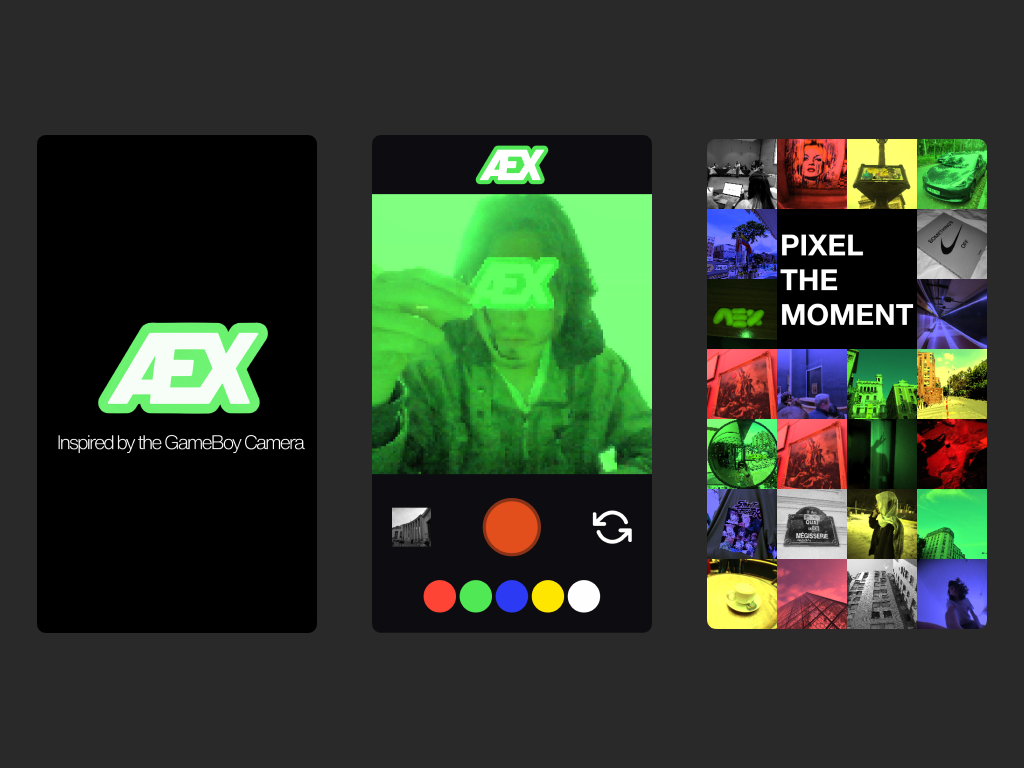
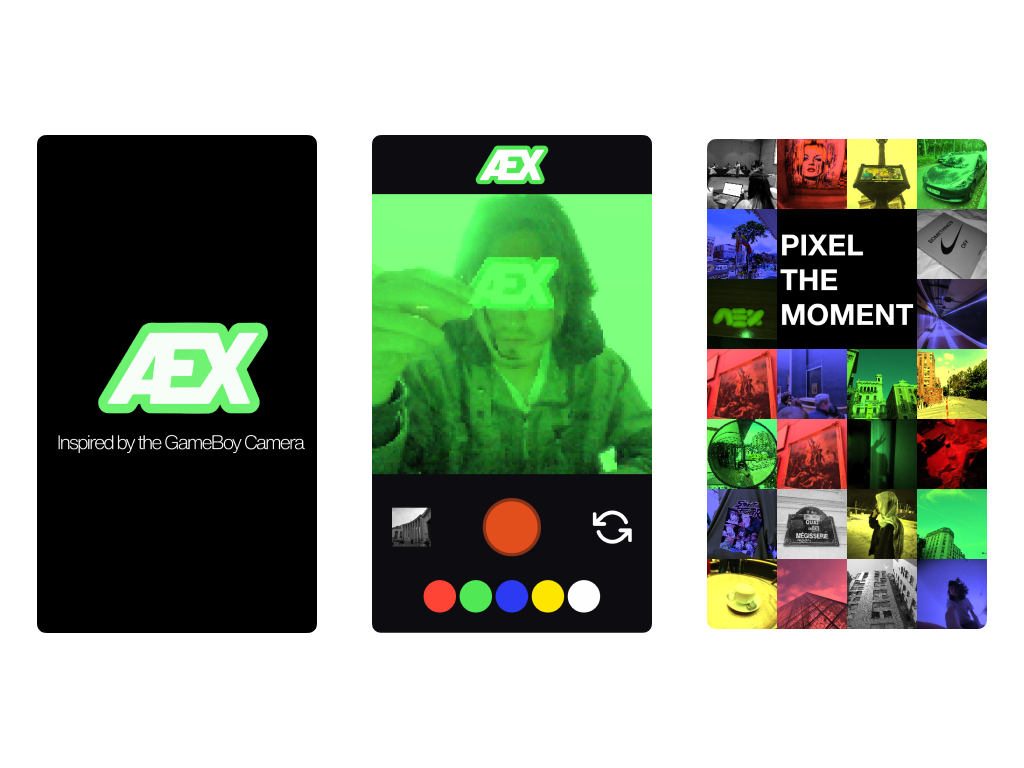
aex front img solved

diff --git a/src/app/components/Flow.module.css b/src/app/components/Flow.module.css
@@ -1,6 +1,7 @@
 .projects {
   /* border: 1px solid red; */
   display: flex;
+  flex-direction: column;
   justify-content: center;
   align-items: center;
   height: 90vh;
@@ -16,7 +17,6 @@
   border-radius: 20px;
   height: 450px;
   width: auto;
-
 }
 
 .poster {
@@ -35,13 +35,21 @@
 }
 
 @media (max-width: 1023px) {
+  .projects {
+    padding: 10px;
+  }
+
+  .projects a {
+    width: auto;
+  }
+
   .projects img {
     height: auto;
-    width: 80%;
+    width: 100%;
   }
 
   .vertical {
-    max-height: 90%;
+    height: 50%;
     width: auto;
   }
 }

diff --git a/src/app/components/Flow.jsx b/src/app/components/Flow.jsx
@@ -9,7 +9,7 @@ const images = [
   { src: "/bloop.gif", class: "web", route: "/bloop" },
   { src: "/BN.png", class: "bn", route: "/bn" },
   { src: "/saikoro.gif", class: "web", route: "/saikoro" },
-  { src: "/AEXUI.png", class: "vertical", route: "/aex" },
+  { src: "/AEXWRAP.png", class: "think", route: "/aex" },
   { src: "/greenlamp.gif", class: "think", route: "/glow" },
   { src: "/INSTW.png", class: "poster", route: "/instw" },
   { src: "/icarus.svg", class: "vertical", route: "/icarus" },
